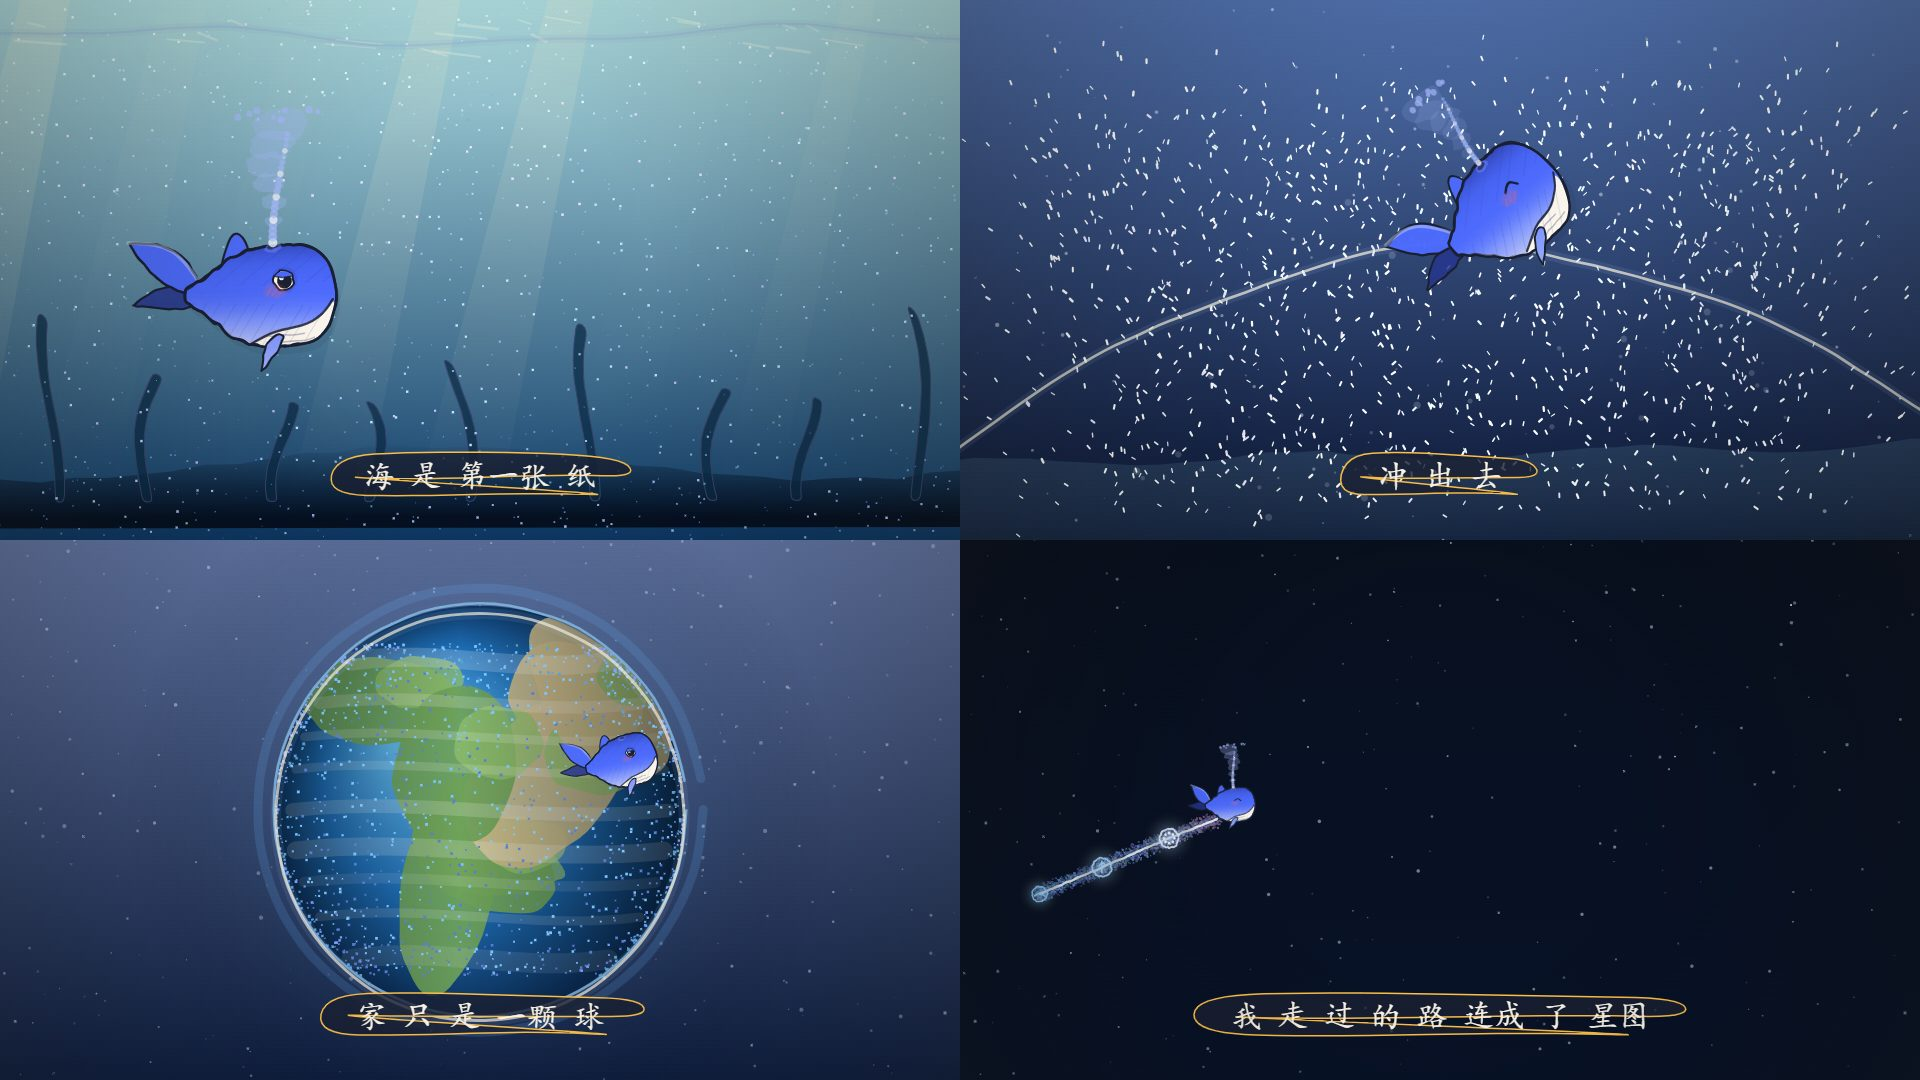
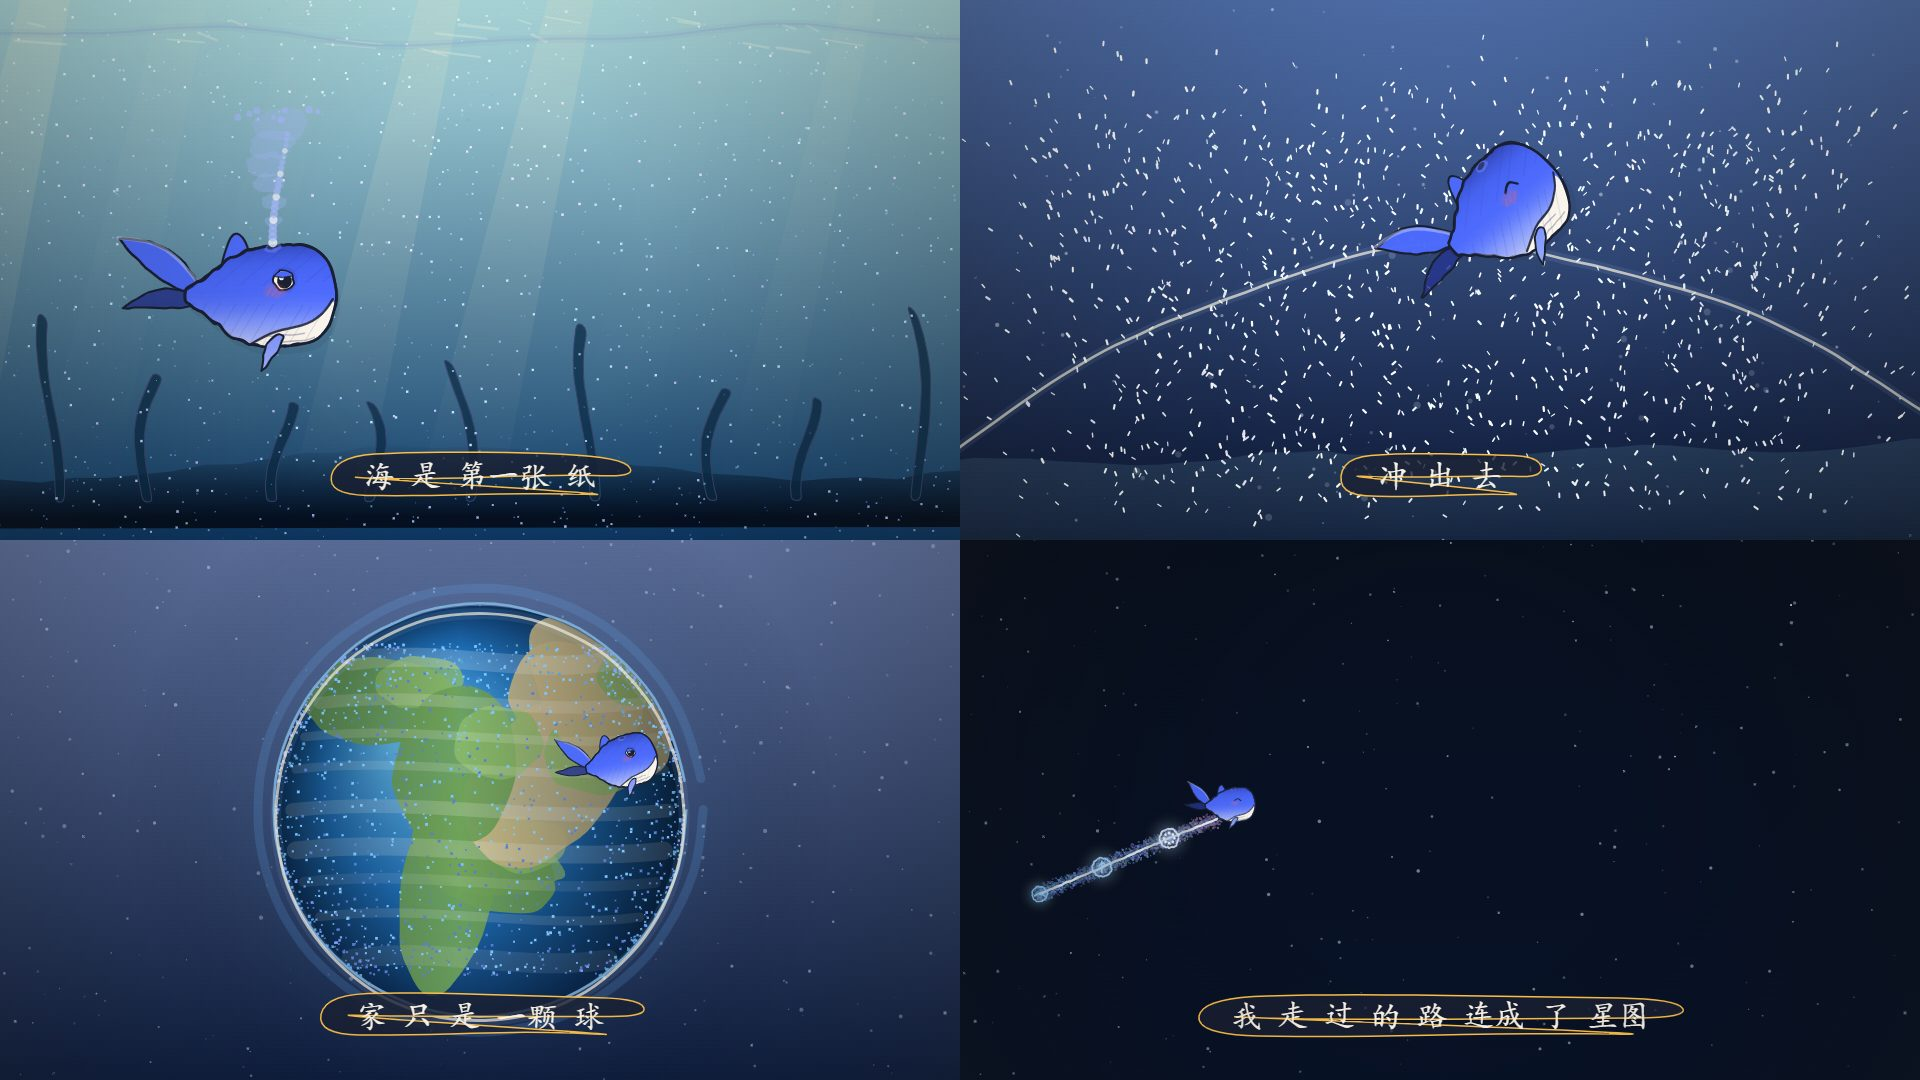
Longer fluke, curl pose, spout only in the ocean
Three follow-ups from the character review:

1. Fluke lobes 92/72 -> 106/84, width 24/16 -> 21/14. The previous pass traded
   elegance for a solid silhouette; this gets both back.

2. New pose: G.whale(..., { pose: 'curl' }) draws the mark's own pose - the whale
   curled into a ball. The film can never use it (the whale has to swim), but for
   a title card or a cover it is the version that is recognised instantly. The
   spine is an arc with a thick head tapering to the tail, the white crescent
   fills the inside of the curl, and it gets its own fluke/dorsal/flipper/eye
   placement. The bottom two rig cells show it (paint 1 and pencil only), and
   docs/rig.jpg now carries the whole character sheet in the README.

3. The spout fires only when the whale is in the ocean. It used to run on a 4.7s
   cycle for the whole film, so the whale was blowing water in the black hole and
   at the breach apex. The gate is the current form weight
   (WTS[F_SEA] + WTS[F_UPWELL]) rather than a hand-written time range, so it
   fades in and out by itself and cannot drift out of sync when the scene table
   changes.

Re-rendered: 1818 frames, 60.600s.

diff --git a/js/char.js b/js/char.js
@@ -72,7 +72,7 @@
   const ANG_UP = Math.PI + 0.70, ANG_DN = Math.PI + 0.04;
   function flukePts(ph, up, tailL, tailS, wave) {
     const kL = tailL / 100, kW = tailS / 30;
-    const len = (up ? 92 : 72) * kL, wm = (up ? 24 : 16) * kW;
+    const len = (up ? 106 : 84) * kL, wm = (up ? 21 : 14) * kW;
     const pts = lobePts(FX, up ? -FY : FY,
       (up ? ANG_UP : ANG_DN) + Math.sin(ph + (up ? 0 : 0.35)) * 0.09,
       len, wm, up ? 0.05 : -0.05, 12);
@@ -164,10 +164,97 @@
     C.restore();
   }
 
+  // ======================= 蜷成一团（标识的原姿势）=======================
+  // 侧视那只用来游，这只用来当标题/封面：脊椎是一条圆弧，头厚尾细，白月牙贴内缘。
+  const CS = 132;                                   // 蜷姿的整体尺度
+  const CURL_A0 = Math.PI * 4 / 3, CURL_A1 = -Math.PI * 0.22;   // 240° → −40°（开口朝上）
+  const CURL_TA = -2.263;                           // 尾端切线方向
+  function curlSpine(u) {
+    const a = lerp(CURL_A0, CURL_A1, u), r = 0.78;
+    const h = 0.44 * Math.pow(1 - u, 0.60) + 0.055;  // 半厚：头厚尾细
+    return [Math.cos(a) * r, Math.sin(a) * r, a, h];
+  }
+  function curlBodyPts() {
+    const N = 44, up = [], lo = [];
+    for (let i = 0; i <= N; i++) {
+      const s = curlSpine(i / N), nx = Math.cos(s[2]), ny = Math.sin(s[2]);
+      up.push([(s[0] + nx * s[3]) * CS, (s[1] + ny * s[3]) * CS]);
+      lo.push([(s[0] - nx * s[3]) * CS, (s[1] - ny * s[3]) * CS]);
+    }
+    return up.concat(lo.reverse());
+  }
+  function curlMouthPts() {                          // 白月牙上缘（贴内缘）
+    const N = 26, q = [];
+    for (let i = 0; i <= N; i++) {
+      const s = curlSpine(lerp(0.04, 0.78, i / N)), nx = Math.cos(s[2]), ny = Math.sin(s[2]);
+      q.push([(s[0] - nx * s[3] * 1.02) * CS, (s[1] - ny * s[3] * 1.02) * CS]);
+    }
+    return q;
+  }
+  function curlJawPts() {                            // 白月牙 = 上缘（内缘）+ 往洞内收的另一条弧
+    const N = 26, a2 = [];
+    for (let i = 0; i <= N; i++) {
+      const s = curlSpine(lerp(0.04, 0.78, i / N)), nx = Math.cos(s[2]), ny = Math.sin(s[2]);
+      a2.push([(s[0] - nx * s[3] * 0.26) * CS, (s[1] - ny * s[3] * 0.26) * CS]);
+    }
+    return curlMouthPts().concat(a2.reverse());
+  }
+  function curlFluke(up) {
+    const s = curlSpine(0.93);
+    return lobePts(s[0] * CS, s[1] * CS, CURL_TA + (up ? -0.44 : 0.34),
+      up ? 116 : 86, up ? 25 : 15, up ? 0.05 : -0.05, 12);
+  }
+  function curlDorsalPts() {
+    const s = curlSpine(0.07), nx = Math.cos(s[2]), ny = Math.sin(s[2]);
+    return lobePts((s[0] + nx * s[3] * 0.70) * CS, (s[1] + ny * s[3] * 0.70) * CS, s[2] - 0.34, 42, 13, 0.10, 8);
+  }
+  function curlFlipperPts() {
+    const s = curlSpine(0.70), nx = Math.cos(s[2]), ny = Math.sin(s[2]);
+    return lobePts((s[0] + nx * s[3] * 0.66) * CS, (s[1] + ny * s[3] * 0.66) * CS, s[2] + 0.78, 58, 12, -0.12, 9);
+  }
+  const CURL_EYE = [-0.50 * CS, -0.30 * CS];
+
+  function drawCurl(t, mood, o, paint, sketch, baseA) {
+    const C = G.getCtx();
+    const bp = curlBodyPts(), jw = curlJawPts();
+    const fUp = curlFluke(true), fDn = curlFluke(false);
+    if (sketch > 0.02) {
+      const sa = 110 * sketch;
+      G.stroke(G.ellPts(0, 0, 1.34 * CS, 1.34 * CS, 32, 3), { ink: P.ink2, sw: 1.4, alpha: sa * 0.6, jitter: 3, smooth: 1 });
+      G.stroke([[-1.5 * CS, 0], [1.5 * CS, 0]], { ink: P.ink2, sw: 1.2, alpha: sa * 0.8, jitter: 3, dash: [10, 12], smooth: 0 });
+      G.stroke([[0, -1.5 * CS], [0, 1.5 * CS]], { ink: P.ink2, sw: 1.2, alpha: sa * 0.6, jitter: 3, dash: [8, 10], smooth: 0 });
+      G.paint(bp, { ink: P.ink2, sw: 2.4, jitter: 2.4, inkOp: sa });
+      G.paint(jw, { ink: P.ink2, sw: 1.8, jitter: 2.4, inkOp: sa * 0.7 });
+      G.paint(fUp, { ink: P.ink2, sw: 2.1, jitter: 2.4, inkOp: sa });
+      G.paint(fDn, { ink: P.ink2, sw: 2.1, jitter: 2.4, inkOp: sa });
+    }
+    C.globalAlpha = baseA * paint;
+    G.paint(fDn, { fill: P.dsDk, fillOp: 215, ink: P.ink, sw: 2.4, jitter: 1.3 });
+    G.paint(fUp, { fill: P.ds, fillOp: 250, ink: P.ink, sw: 2.8, jitter: 1.3 });
+    G.paint(curlDorsalPts(), { fill: P.ds, fillOp: 245, ink: P.ink, sw: 2.3, jitter: 1.1 });
+    G.paint(bp, { fill: P.ds, ink: P.ink, sw: 3.0, jitter: 1.2 });
+    C.save();
+    G.tracePts(bp, 1, true);
+    C.clip();
+    const g = C.createLinearGradient(0, -1.3 * CS, 0, 1.3 * CS);
+    g.addColorStop(0.00, 'rgba(110,134,255,0.30)');
+    g.addColorStop(0.45, 'rgba(77,107,254,0.06)');
+    g.addColorStop(1.00, 'rgba(38,52,143,0.46)');
+    C.fillStyle = g; C.fillRect(-1.7 * CS, -1.7 * CS, 3.4 * CS, 3.4 * CS);
+    // 洞口填白 —— 标识里那块白月牙其实就是这个洞
+    G.paint(G.ellPts(-0.05 * CS, 0.03 * CS, 0.58 * CS, 0.56 * CS, 34, 1.3), { fill: P.cream, fillOp: 248 });
+    G.paint(jw, { fill: P.cream, fillOp: 248, jitter: 1.0 });
+    G.stroke(curlMouthPts(), { ink: P.ink, sw: 2.5, alpha: 210, jitter: .8, smooth: 1 });
+    C.restore();
+    G.paint(bp, { ink: P.ink, sw: 3.0, jitter: 1.2 });
+    eye(t, CURL_EYE[0], CURL_EYE[1], o.eyeR == null ? 11 : o.eyeR, mood, o.blink || 0);
+    G.paint(curlFlipperPts(), { fill: P.dsMid, fillOp: 245, ink: P.ink, sw: 2.4, jitter: 1.2 });
+  }
+
   // ======================= 主入口 =======================
   // whale(t, x, y, 尺寸, 选项)
   // o: dir(+1右/-1左) tilt mood squash stretch alpha aura spout blink eyeR
-  //    tailSpeed tailL tailS wave paint sketch ground blush emote emoteO
+  //    tailSpeed tailL tailS wave paint sketch ground blush emote emoteO pose('curl')
   G.whale = function (t, x, y, s, o) {
     const C = G.getCtx(); if (!C) return;
     o = o || {};
@@ -195,6 +282,14 @@
       g.addColorStop(0, 'rgba(141,166,255,' + (0.5 * o.aura) + ')');
       g.addColorStop(1, 'rgba(141,166,255,0)');
       C.save(); C.fillStyle = g; C.beginPath(); C.arc(0, 0, 210, 0, G.TAU); C.fill(); C.restore();
+    }
+
+    // 蜷成一团（标识的原姿势）：静态场合用，片子里不用
+    if (o.pose === 'curl') {
+      drawCurl(t, mood, o, paint, sketch, baseA);
+      C.restore();
+      if (o.emote) G.emote(o.emote, x + dir * 150 * s, y - 150 * s, s, t, o.emoteO);
+      return;
     }
 
     // ---- 铅笔起稿辅助线 ----

diff --git a/js/main.js b/js/main.js
@@ -279,7 +279,7 @@
   // 3 行 × 2 列：上色阶段（铅笔稿 / 半上色 / 完成稿）× 表情姿势。
   // 同一个 drawRig 同时供页面调试模式（?rig=1）与 render.mjs --rig 使用，
   // 改完 char.js 直接出图对照，不用反复手动截图。
-  const RIG_SCALE = 1.40, RIG_DX = 54, RIG_DY = 8;
+  const RIG_SCALE = 1.20, RIG_DX = 54, RIG_DY = 8;
   const RIG = [
     { label: 'paint 0 · 铅笔稿',           o: { sketch: 1, paint: 0 } },
     { label: 'paint 0.5 · 半上色',         o: { sketch: 0.5, paint: 0.5 } },
@@ -287,9 +287,11 @@
     { label: 'paint 1 · 地面投影',         o: { paint: 1, ground: 1 } },
     { label: 'happy · 喷水',               o: { paint: 1, mood: 'happy', spout: 1 } },
     { label: 'dir -1 · wow',               o: { paint: 1, dir: -1, mood: 'wow' } },
+    { label: 'pose curl · 标识原姿势',     o: { paint: 1, pose: 'curl' }, s: 0.66 },
+    { label: 'pose curl · 铅笔稿',         o: { paint: 0, sketch: 1, pose: 'curl' }, s: 0.66 },
   ];
   function drawRig(x, t) {
-    const cellW = W / 2, cellH = H / 3;
+    const cellW = W / 2, cellH = H / 4;
     x.save();
     x.fillStyle = G.PAL.paper; x.fillRect(0, 0, W, H);
     x.textAlign = 'left'; x.textBaseline = 'top';
@@ -300,7 +302,7 @@
       x.beginPath(); x.rect(ox, oy, cellW, cellH); x.clip();
       x.translate(ox + cellW / 2, oy + cellH / 2);
       G.setCtx(x);
-      G.whale(t, RIG_DX, RIG_DY, RIG_SCALE, RIG[i].o);
+      G.whale(t, RIG_DX, RIG_DY, RIG_SCALE * (RIG[i].s || 1), RIG[i].o);
       x.restore();
       x.strokeStyle = 'rgba(26,32,51,.16)'; x.lineWidth = 1;
       x.strokeRect(ox + .5, oy + .5, cellW - 1, cellH - 1);

diff --git a/js/odyssey.js b/js/odyssey.js
@@ -1027,11 +1027,12 @@
       const s = trailSample(trailGrow(t));
       wx = lerp(wx, s[0] + 24, tw); wy = lerp(wy, s[1] - 30, tw);
     }
-    // 吐水节奏放慢：每 2 小节喷一次，缓慢升起再缓慢散掉。
-    // 原来是每一拍喷一次（约 1.7 次/秒），看着像在抽搐。
+    // 吐水：**只在"海里"的幕出现**（海洋 + 上浮）。太空里没有水可喷。
+    // 闸门取当前形态权重，所以进出水是自动淡入淡出的，不用手写时间区间。
+    const wet = clamp(WTS[F_SEA] + WTS[F_UPWELL]);
+    // 节奏：每 2 小节一次，缓慢升起再缓慢散掉（原来是每一拍一次，约 1.7 次/秒，像在抽搐）
     const spc = G.bar() * 2, sph = G.frac((t - 1.4) / spc);
-    let spout = sph < 0.46 ? Math.sin(sph / 0.46 * Math.PI) * 1.15 : 0;
-    if (t > 8.6 && t < 9.9) spout = Math.max(spout, 0.5 * Math.sin(G.seg(t, 8.6, 9.9) * Math.PI));  // 弧顶再喷一口
+    const spout = (sph < 0.46 ? Math.sin(sph / 0.46 * Math.PI) * 1.15 : 0) * wet;
     const def = breachDeform(t);
     // 上浮段摆尾加速（用平滑斜坡，尾相位才连续；直接跳会看到尾巴瞬移）
     const tailFast = 2.6 + 1.1 * Math.min(G.seg(t, 4.0, 4.8), 1 - G.seg(t, 7.6, 8.4));

diff --git a/README.md b/README.md
@@ -102,8 +102,18 @@ pos(i, t) = form[形态A](i, t) × (1 − k) + form[形态B](i, t) × k
 尾鳍张角），白月牙的嘴线是 `MOUTH`，五官坐标在 `G.whale` 里，
 尾叶与胸鳍共用 `lobePts()` —— 一个"沿脊椎线扫出宽叶"的生成器。
 
+**另一个姿势：`pose: 'curl'`。** 标识原本就是那个姿势 —— 鲸鱼蜷成一团。片子里用不上
+（它要游），但做标题 / 封面时那才是"一眼认出"的一版：脊椎是一条圆弧、头厚尾细，
+白月牙填在洞口的里侧。姿势表的最后两格就是它。
+
+**喷水只在"海里"的幕出现**（海洋 + 上浮）。太空里没有水可喷。
+闸门取的是当前形态权重 `WTS[F_SEA] + WTS[F_UPWELL]`，所以进出水是自动淡入淡出的，
+不用手写时间区间 —— 改幕表也不会忘掉它。
+
+![character sheet](docs/rig.jpg)
+
 ```bash
-node render.mjs --rig --out=out/rig.jpg     # 角色标准姿势表：铅笔稿 / 半上色 / 完成稿 / 表情
+node render.mjs --rig --out=out/rig.jpg     # 角色标准姿势表：铅笔稿 / 半上色 / 完成稿 / 表情 / 标识原姿势
 ```
 
 ---
@@ -219,7 +229,8 @@ WhaleAnimationBase/
 ├── docs/                 # README 配图
 │   ├── hero.jpg
 │   ├── morph.jpg
-│   └── sheet.jpg
+│   ├── sheet.jpg
+│   └── rig.jpg           # 角色标准姿势表（--rig 的产物）
 ├── assets/               # 用户自备音乐（已被 .gitignore 排除）
 │   └── README.txt
 ├── out/                  # 渲染产物（已被 .gitignore 排除）

diff --git a/ANIMATION_GUIDE.md b/ANIMATION_GUIDE.md
@@ -195,6 +195,7 @@ G.whale(t, x, y, 尺寸, {
   paint: 1,        // 0=纯铅笔稿  1=完成上色  中间值=正在被画出来
   sketch: 0,       // 起稿辅助线的强度（辅助椭圆+中心线+定位点）
   ground: 0,       // 地面排线投影
+  pose: null,      // 'curl' = 标识原姿势（蜷成一团）；只用于标题 / 封面这类静态场合
   dir: 1,          // +1 头朝右 / -1 头朝左（整体镜像）
   tilt: 0, mood: 'idle',   // idle|happy|sing|wow|dizzy|heart|sleep|wink
   squash: 1, stretch: 1, blink: 0,
